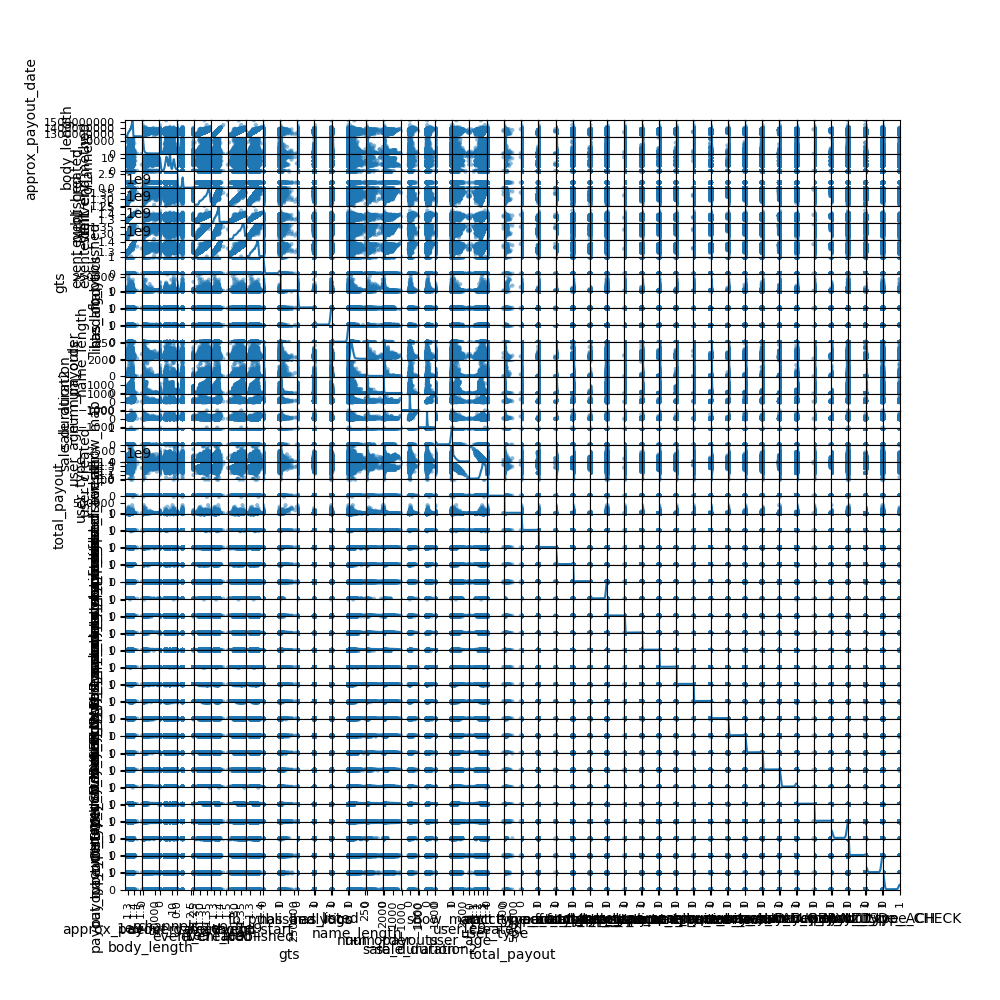
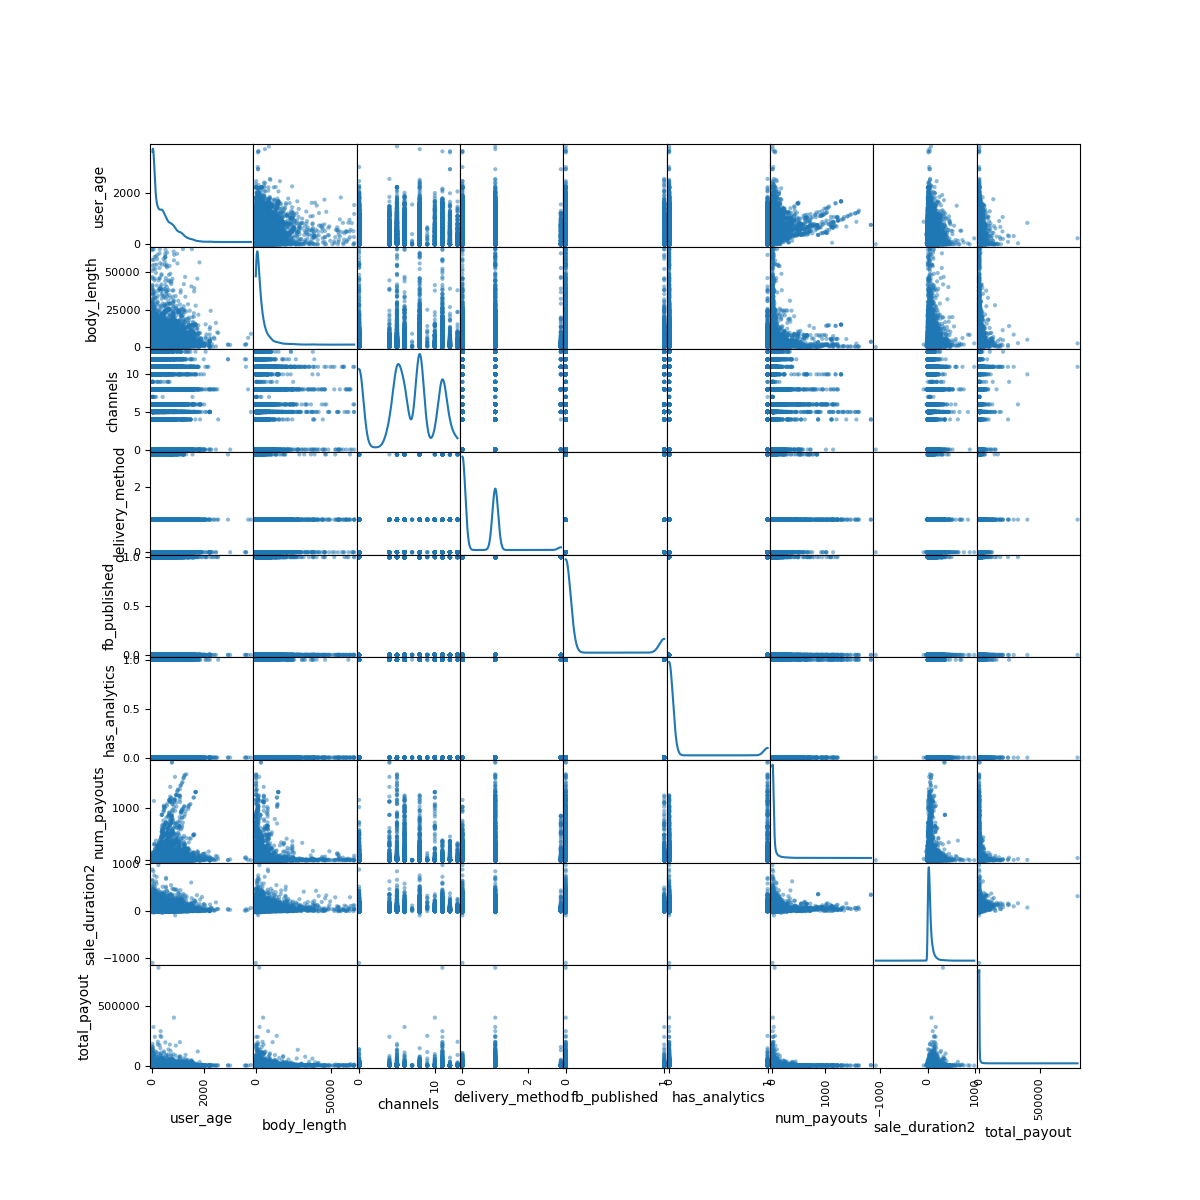
Fixed pipeline issue

Changed region(s): [[0.031, 0.093, 0.961, 0.961]]

diff --git a/model/pipeline.py b/model/pipeline.py
@@ -2,40 +2,39 @@ import pandas as pd
 from bs4 import BeautifulSoup
 
 
-def get_labels(series):
-    return (series != "premium").astype(int)
+def add_labels(df):
+    df["fraud"] = (df["acct_type"] != "premium").astype(int)
+    return df.drop("acct_type", axis=1)
 
 
 def strip_html(txt):
     return BeautifulSoup(txt).text
 
 
-def get_text_data(df):
-    return df["description"].apply(strip_html)
+def unpack(ticket_types_lst):
+    return sum(d['quantity_sold'] * d['cost'] for d in ticket_types_lst)
 
 
-def get_numeric_data(df):
+def clean_data(df):
     df["total_payout"] = df["ticket_types"].apply(unpack)
     df["listed"] = df["listed"].map({'y': 1, 'n': 0})
+    df["description"] = df["description"].apply(strip_html)
     cols = [
-        "description", "country", "email_domain", "ticket_types", "venue_address", "venue_country",
+        "country", "email_domain", "ticket_types", "venue_address", "venue_country",
         "venue_latitude", "has_header", "venue_longitude", "venue_name", "venue_state", "name", "object_id",
         "org_desc", "org_facebook", "org_twitter", "org_name", "payee_name", "previous_payouts"
     ]
     df.drop(cols, axis=1, inplace=True)
     df.dropna(inplace=True)
-    return pd.get_dummies(df)
-
-
-def unpack(ticket_types_lst):
-    return sum(d['quantity_sold'] * d['cost'] for d in ticket_types_lst)
+    return df
 
 
 def main():
     df = pd.read_json('../data/data.json')
-    y = get_labels(df.pop("acct_type"))
-    X_text = get_text_data(df)
-    X_num = get_numeric_data(df).values
+    df = clean_data(add_labels(df))
+    y = df.pop("fraud")
+    X_text = df.pop("description")
+    X_num = pd.get_dummies(df).values
     return X_text, X_num, y
 
 

diff --git a/EDA/EDA.py b/EDA/EDA.py
@@ -3,7 +3,7 @@ import matplotlib.pyplot as plt
 from pandas.plotting import scatter_matrix
 import sys
 sys.path.append('..')
-from model.pipeline import get_numeric_data
+from model.pipeline import clean_data
 
 
 def plot_histograms(df):
@@ -16,17 +16,15 @@ def plot_histograms(df):
 
 
 def plot_scatter_matrix(df):
-    scatter_matrix(df, figsize=(10, 10), diagonal='kde')
+    scatter_matrix(df, figsize=(12, 12), diagonal='kde')
     plt.savefig("images/scatter_matrix.png")
 
 
 if __name__ == '__main__':
-    df = pd.read_json('../data/data.json')
+    df = clean_data(pd.read_json('../data/data.json'))
     cols = [
         "user_age", "body_length", "channels", "delivery_method", "fb_published", "has_analytics",
-        "num_payouts", "sale_duration2"
+        "num_payouts", "sale_duration2", "total_payout"
     ]
-    df = df[cols]
-    df = get_numeric_data(df)
-    plot_histograms(df)
-    plot_scatter_matrix(df)
+    plot_histograms(df[cols])
+    plot_scatter_matrix(df[cols])
